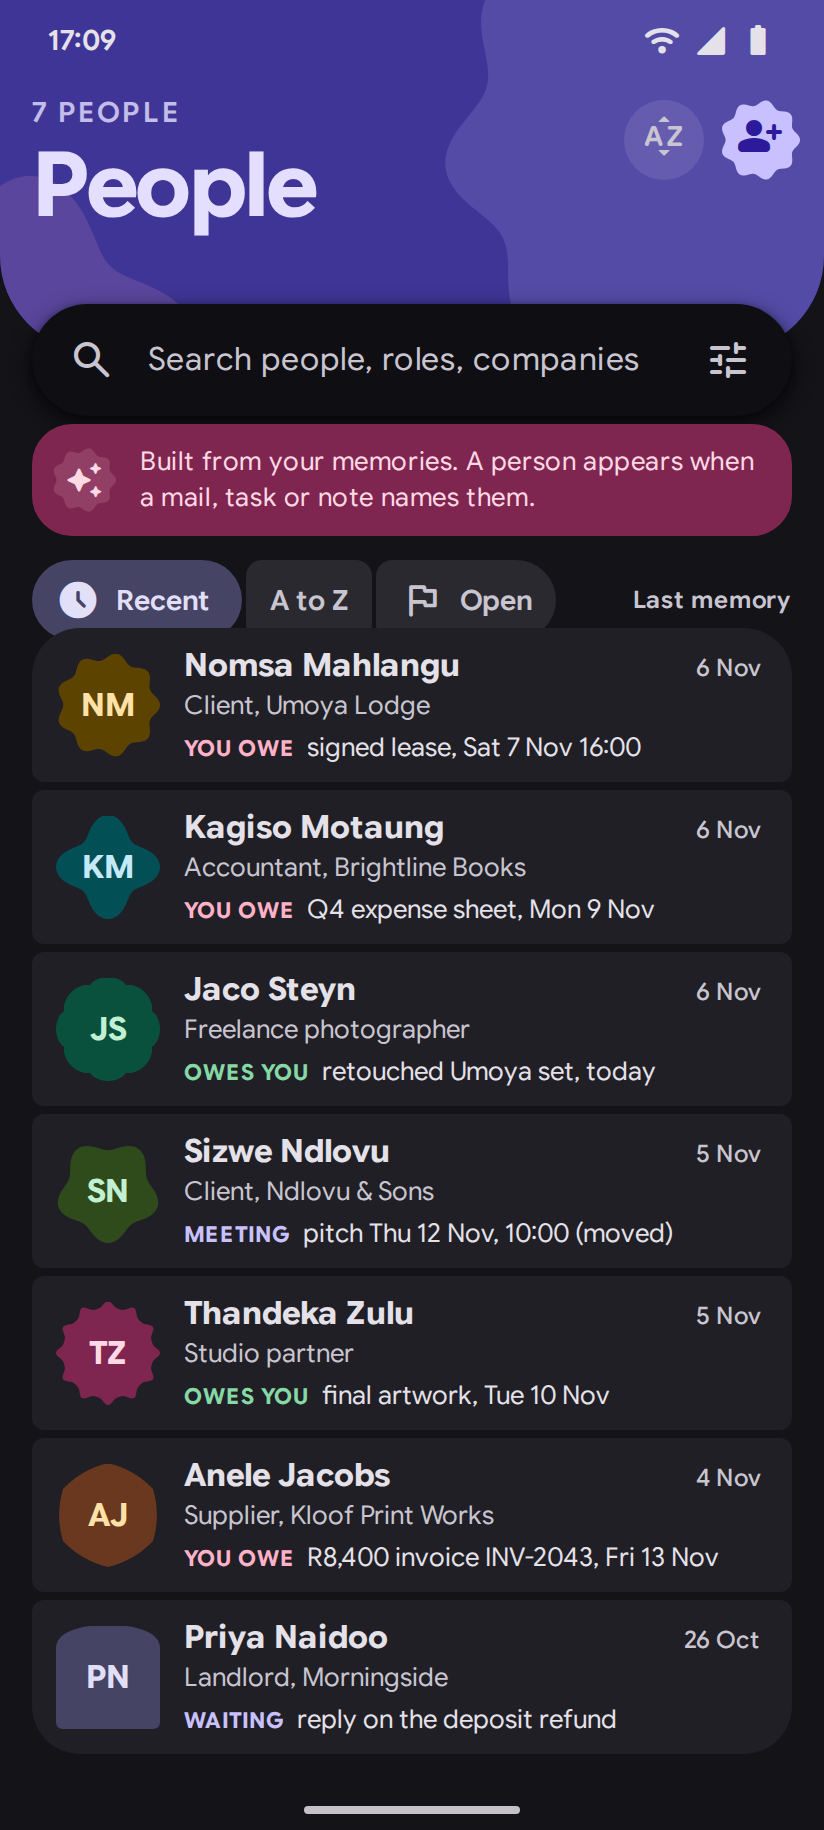
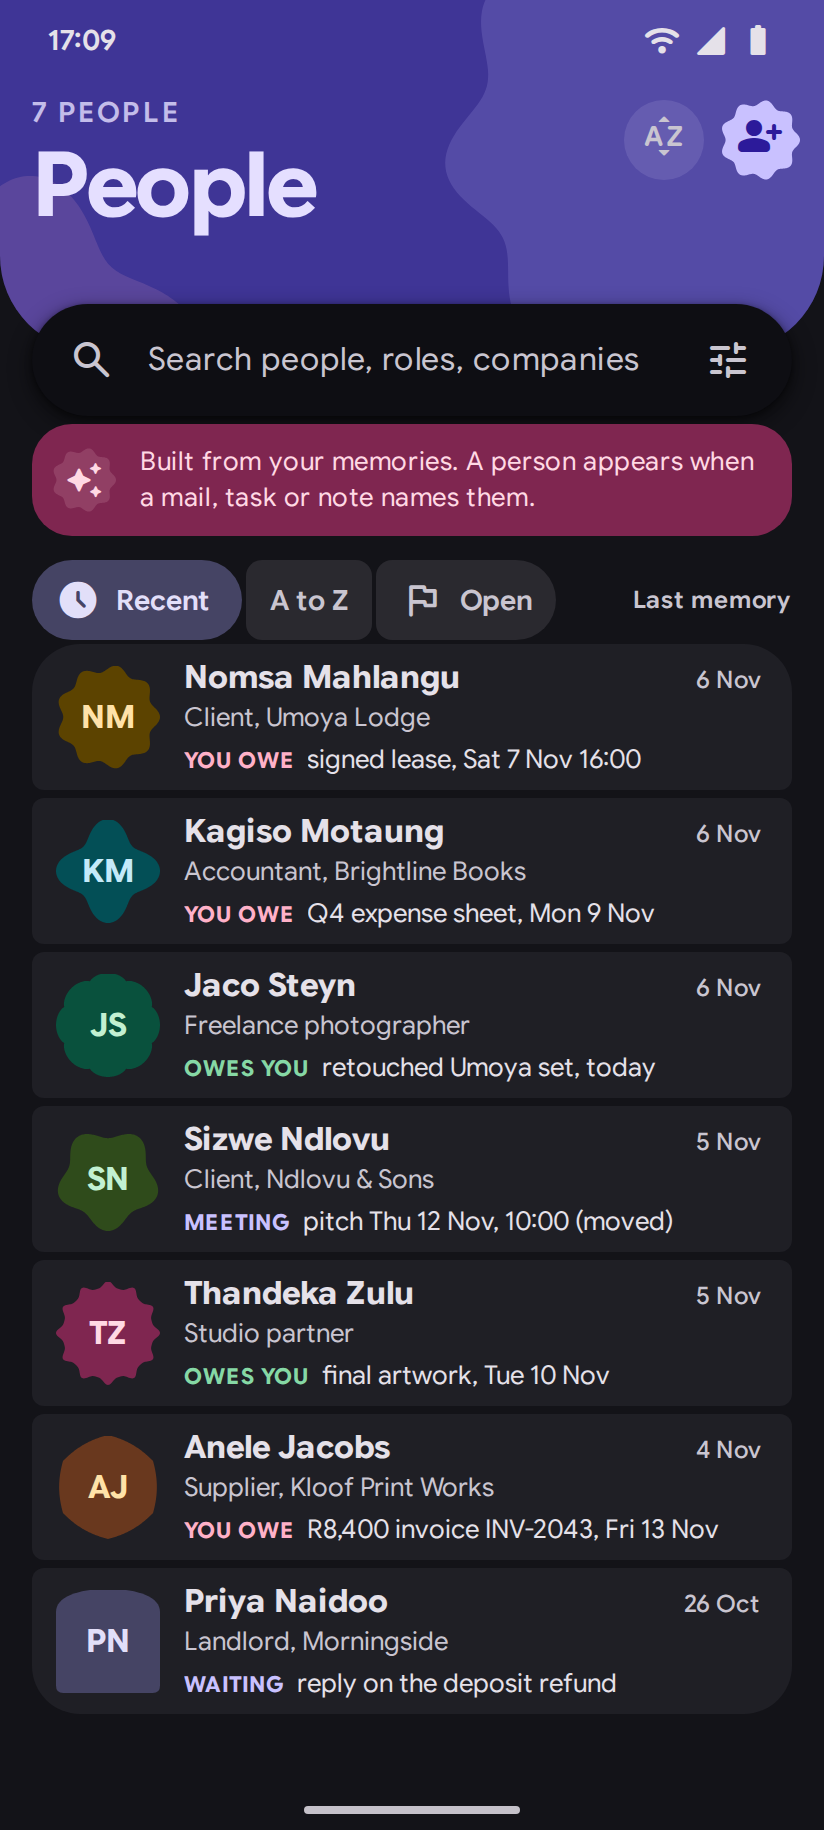
Mocks 06 to 10 (daily report, people, person, nudge, chat answer): v3

diff --git a/design/life-agent-mocks/06-daily-report-dark.html b/design/life-agent-mocks/06-daily-report-dark.html
@@ -7,28 +7,28 @@ const mountB = (html, time) => { mount(html); document.querySelector('.status sp
 
 const sec = (l, c) => `<div class="sec" style="height:24px"><span class="l">${l}${c !== undefined ? `<span class="c">${c}</span>` : ''}</span></div>`;
 /* aware: a shaped kind icon instead of a tick, the whole row opens the source */
-const aware = (icon, tn, shape, t, src, when) => `<div class="row" style="min-height:52px"><div class="shi" style="width:36px;height:36px;${tone(tn)}${clip(shape)}">${ic(icon, 'f s20')}</div><div class="txt"><div class="ttl" style="font-size:14px">${t}</div><div class="meta" style="margin-top:1px">${sc(src)}<span class="t">${when}</span></div></div><div class="ib" style="width:40px">${ic('arrow_outward', 's20')}</div></div>`;
-const task = (t, src, when, o = {}) => `<div class="row ${o.late ? 'late' : ''}" style="min-height:52px"><div class="tickw"><div class="tick ${o.late ? 'late' : ''}"></div></div><div class="txt"><div class="ttl" style="font-size:14px">${t}</div><div class="meta" style="margin-top:1px">${sc(src)}<span class="t ${o.late ? 'late' : ''}">${when}</span></div></div><div class="ib" style="width:44px">${ic('snooze', 's20')}</div></div>`;
-const oc = (t, i) => `<span class="chip" style="height:32px;padding:0 12px 0 10px;font-size:13px;gap:6px">${ic(i || 'radio_button_unchecked')}${t}</span>`;
+const aware = (icon, tn, shape, t, src, when) => `<div class="row" style="min-height:50px"><div class="shi" style="width:36px;height:36px;${tone(tn)}${clip(shape)}">${ic(icon, 'f s20')}</div><div class="txt"><div class="ttl" style="font-size:14px">${t}</div><div class="meta" style="margin-top:1px">${sc(src)}<span class="t">${when}</span></div></div><div class="ib" style="width:40px">${ic('arrow_outward', 's20')}</div></div>`;
+const task = (t, src, when, o = {}) => `<div class="row ${o.late ? 'late' : ''}" style="min-height:50px"><div class="tickw"><div class="tick ${o.late ? 'late' : ''}"></div></div><div class="txt"><div class="ttl" style="font-size:14px">${t}</div><div class="meta" style="margin-top:1px">${sc(src)}<span class="t ${o.late ? 'late' : ''}">${when}</span></div></div><div class="ib" style="width:44px">${ic('snooze', 's20')}</div></div>`;
+const oc = (t, i) => `<span class="chip" style="height:30px;padding:0 12px 0 10px;font-size:13px;gap:6px">${ic(i || 'radio_button_unchecked')}${t}</span>`;
 
 mountB(`
-${blobHeader({ eyebrow: 'FRIDAY 6 NOVEMBER', title: '<span style="font:700 36px/42px var(--font);letter-spacing:-.8px">Daily report</span>', back: 1, h: 152, icon1: 'history', icon2: 'tune' })}
+${blobHeader({ eyebrow: 'FRIDAY 6 NOVEMBER', title: '<span style="font:700 36px/42px var(--font);letter-spacing:-.8px">Daily report</span>', back: 1, h: 148, icon1: 'history', icon2: 'tune' })}
 <div class="abs" style="top:112px;left:16px;right:16px;display:flex;gap:6px;color:var(--on-primary-container)">
   <span class="pill" style="background:color-mix(in srgb,var(--on-primary-container) 12%,transparent)">${ic('sync')}Collected 17:04</span>
   <span class="pill" style="background:color-mix(in srgb,var(--on-primary-container) 12%,transparent)">3 due today</span>
   <span class="pill err">1 overdue</span>
 </div>
 
-<div class="abs" style="top:160px;left:0;right:0">
+<div class="abs" style="top:154px;left:0;right:0">
   ${sec('TO BE AWARE OF', 4)}
   <div class="grp" style="gap:2px">
-    ${aware('schedule', 't', 'cookie9', 'Signed lease due to Nomsa tomorrow, 16:00', 'gmail', 'Sat 7 Nov')}
+    ${aware('schedule', 't', 'cookie9', 'Nomsa\'s lease is due tomorrow', 'gmail', 'Sat 7 Nov, 16:00')}
     ${aware('payments', 'a', 'clover4', 'INV-2043, R8,400, is due Fri 13 Nov', 'gmail', 'Anele Jacobs')}
-    ${aware('event_repeat', 'k', 'puffy', 'Sizwe moved the pitch to Thu 12 Nov, 10:00', 'cal', 'moved from Wed')}
-    ${aware('shield', 'g', 'gem', 'New Google sign-in from Windows, Durban', 'gmail', 'Thu 21:12')}
+    ${aware('event_repeat', 'k', 'puffy', 'Pitch moved to Thu 12 Nov, 10:00', 'cal', 'Sizwe, was Wed')}
+    ${aware('shield', 'g', 'gem', 'New Google sign-in from Durban', 'gmail', 'Windows, Thu 21:12')}
   </div>
 
-  <div style="height:6px"></div>
+  <div style="height:2px"></div>
   ${sec('DUE TODAY', 3)}
   <div class="grp" style="gap:2px">
     ${task('Chase Jaco for the retouched set', 'clickup', 'today 17:00')}
@@ -36,15 +36,15 @@ ${blobHeader({ eyebrow: 'FRIDAY 6 NOVEMBER', title: '<span style="font:700 36px/
     ${task('Standup notes for Thandeka', 'clickup', 'today')}
   </div>
 
-  <div style="height:4px"></div>
+  <div style="height:0"></div>
   ${sec('OVERDUE', 1)}
   <div class="grp">${task('Book the Durban workshop flights', 'clickup', '2 days late', { late: 1 })}</div>
 
-  <div style="height:4px"></div>
+  <div style="height:0"></div>
   ${sec('TODAY\'S MEETINGS', 1)}
-  <div class="grp"><div class="row" style="min-height:52px"><div style="width:40px;flex:none;text-align:center"><div class="title-m-em" style="line-height:20px;font-size:15px">15:30</div><div class="label-s muted" style="font-weight:500">30 min</div></div><div class="txt"><div class="ttl" style="font-size:14px">Call with Kagiso about Q4</div><div class="meta" style="margin-top:1px">${sc('cal')}<span class="t">Google Meet</span></div></div><div class="ib" style="width:44px">${ic('chevron_right', 's20')}</div></div></div>
+  <div class="grp"><div class="row" style="min-height:50px"><div style="width:40px;flex:none;text-align:center"><div class="title-m-em" style="line-height:20px;font-size:15px">15:30</div><div class="label-s muted" style="font-weight:500">30 min</div></div><div class="txt"><div class="ttl" style="font-size:14px">Call with Kagiso about Q4</div><div class="meta" style="margin-top:1px">${sc('cal')}<span class="t">Google Meet</span></div></div><div class="ib" style="width:44px">${ic('chevron_right', 's20')}</div></div></div>
 
-  <div style="height:4px"></div>
+  <div style="height:0"></div>
   ${sec('STILL OPEN', 5)}
   <div style="display:flex;flex-wrap:wrap;gap:6px 6px;padding:0 16px">
     ${oc('Q4 expense sheet')}${oc('Approve INV-2043')}${oc('Chase Jaco')}${oc('Book the flights')}${oc('Sign the lease')}

diff --git a/design/life-agent-mocks/06-daily-report-light.html b/design/life-agent-mocks/06-daily-report-light.html
@@ -7,28 +7,28 @@ const mountB = (html, time) => { mount(html); document.querySelector('.status sp
 
 const sec = (l, c) => `<div class="sec" style="height:24px"><span class="l">${l}${c !== undefined ? `<span class="c">${c}</span>` : ''}</span></div>`;
 /* aware: a shaped kind icon instead of a tick, the whole row opens the source */
-const aware = (icon, tn, shape, t, src, when) => `<div class="row" style="min-height:52px"><div class="shi" style="width:36px;height:36px;${tone(tn)}${clip(shape)}">${ic(icon, 'f s20')}</div><div class="txt"><div class="ttl" style="font-size:14px">${t}</div><div class="meta" style="margin-top:1px">${sc(src)}<span class="t">${when}</span></div></div><div class="ib" style="width:40px">${ic('arrow_outward', 's20')}</div></div>`;
-const task = (t, src, when, o = {}) => `<div class="row ${o.late ? 'late' : ''}" style="min-height:52px"><div class="tickw"><div class="tick ${o.late ? 'late' : ''}"></div></div><div class="txt"><div class="ttl" style="font-size:14px">${t}</div><div class="meta" style="margin-top:1px">${sc(src)}<span class="t ${o.late ? 'late' : ''}">${when}</span></div></div><div class="ib" style="width:44px">${ic('snooze', 's20')}</div></div>`;
-const oc = (t, i) => `<span class="chip" style="height:32px;padding:0 12px 0 10px;font-size:13px;gap:6px">${ic(i || 'radio_button_unchecked')}${t}</span>`;
+const aware = (icon, tn, shape, t, src, when) => `<div class="row" style="min-height:50px"><div class="shi" style="width:36px;height:36px;${tone(tn)}${clip(shape)}">${ic(icon, 'f s20')}</div><div class="txt"><div class="ttl" style="font-size:14px">${t}</div><div class="meta" style="margin-top:1px">${sc(src)}<span class="t">${when}</span></div></div><div class="ib" style="width:40px">${ic('arrow_outward', 's20')}</div></div>`;
+const task = (t, src, when, o = {}) => `<div class="row ${o.late ? 'late' : ''}" style="min-height:50px"><div class="tickw"><div class="tick ${o.late ? 'late' : ''}"></div></div><div class="txt"><div class="ttl" style="font-size:14px">${t}</div><div class="meta" style="margin-top:1px">${sc(src)}<span class="t ${o.late ? 'late' : ''}">${when}</span></div></div><div class="ib" style="width:44px">${ic('snooze', 's20')}</div></div>`;
+const oc = (t, i) => `<span class="chip" style="height:30px;padding:0 12px 0 10px;font-size:13px;gap:6px">${ic(i || 'radio_button_unchecked')}${t}</span>`;
 
 mountB(`
-${blobHeader({ eyebrow: 'FRIDAY 6 NOVEMBER', title: '<span style="font:700 36px/42px var(--font);letter-spacing:-.8px">Daily report</span>', back: 1, h: 152, icon1: 'history', icon2: 'tune' })}
+${blobHeader({ eyebrow: 'FRIDAY 6 NOVEMBER', title: '<span style="font:700 36px/42px var(--font);letter-spacing:-.8px">Daily report</span>', back: 1, h: 148, icon1: 'history', icon2: 'tune' })}
 <div class="abs" style="top:112px;left:16px;right:16px;display:flex;gap:6px;color:var(--on-primary-container)">
   <span class="pill" style="background:color-mix(in srgb,var(--on-primary-container) 12%,transparent)">${ic('sync')}Collected 17:04</span>
   <span class="pill" style="background:color-mix(in srgb,var(--on-primary-container) 12%,transparent)">3 due today</span>
   <span class="pill err">1 overdue</span>
 </div>
 
-<div class="abs" style="top:160px;left:0;right:0">
+<div class="abs" style="top:154px;left:0;right:0">
   ${sec('TO BE AWARE OF', 4)}
   <div class="grp" style="gap:2px">
-    ${aware('schedule', 't', 'cookie9', 'Signed lease due to Nomsa tomorrow, 16:00', 'gmail', 'Sat 7 Nov')}
+    ${aware('schedule', 't', 'cookie9', 'Nomsa\'s lease is due tomorrow', 'gmail', 'Sat 7 Nov, 16:00')}
     ${aware('payments', 'a', 'clover4', 'INV-2043, R8,400, is due Fri 13 Nov', 'gmail', 'Anele Jacobs')}
-    ${aware('event_repeat', 'k', 'puffy', 'Sizwe moved the pitch to Thu 12 Nov, 10:00', 'cal', 'moved from Wed')}
-    ${aware('shield', 'g', 'gem', 'New Google sign-in from Windows, Durban', 'gmail', 'Thu 21:12')}
+    ${aware('event_repeat', 'k', 'puffy', 'Pitch moved to Thu 12 Nov, 10:00', 'cal', 'Sizwe, was Wed')}
+    ${aware('shield', 'g', 'gem', 'New Google sign-in from Durban', 'gmail', 'Windows, Thu 21:12')}
   </div>
 
-  <div style="height:6px"></div>
+  <div style="height:2px"></div>
   ${sec('DUE TODAY', 3)}
   <div class="grp" style="gap:2px">
     ${task('Chase Jaco for the retouched set', 'clickup', 'today 17:00')}
@@ -36,15 +36,15 @@ ${blobHeader({ eyebrow: 'FRIDAY 6 NOVEMBER', title: '<span style="font:700 36px/
     ${task('Standup notes for Thandeka', 'clickup', 'today')}
   </div>
 
-  <div style="height:4px"></div>
+  <div style="height:0"></div>
   ${sec('OVERDUE', 1)}
   <div class="grp">${task('Book the Durban workshop flights', 'clickup', '2 days late', { late: 1 })}</div>
 
-  <div style="height:4px"></div>
+  <div style="height:0"></div>
   ${sec('TODAY\'S MEETINGS', 1)}
-  <div class="grp"><div class="row" style="min-height:52px"><div style="width:40px;flex:none;text-align:center"><div class="title-m-em" style="line-height:20px;font-size:15px">15:30</div><div class="label-s muted" style="font-weight:500">30 min</div></div><div class="txt"><div class="ttl" style="font-size:14px">Call with Kagiso about Q4</div><div class="meta" style="margin-top:1px">${sc('cal')}<span class="t">Google Meet</span></div></div><div class="ib" style="width:44px">${ic('chevron_right', 's20')}</div></div></div>
+  <div class="grp"><div class="row" style="min-height:50px"><div style="width:40px;flex:none;text-align:center"><div class="title-m-em" style="line-height:20px;font-size:15px">15:30</div><div class="label-s muted" style="font-weight:500">30 min</div></div><div class="txt"><div class="ttl" style="font-size:14px">Call with Kagiso about Q4</div><div class="meta" style="margin-top:1px">${sc('cal')}<span class="t">Google Meet</span></div></div><div class="ib" style="width:44px">${ic('chevron_right', 's20')}</div></div></div>
 
-  <div style="height:4px"></div>
+  <div style="height:0"></div>
   ${sec('STILL OPEN', 5)}
   <div style="display:flex;flex-wrap:wrap;gap:6px 6px;padding:0 16px">
     ${oc('Q4 expense sheet')}${oc('Approve INV-2043')}${oc('Chase Jaco')}${oc('Book the flights')}${oc('Sign the lease')}

diff --git a/design/life-agent-mocks/10-chat-week-dark.html b/design/life-agent-mocks/10-chat-week-dark.html
@@ -39,7 +39,7 @@ mountB(`
   </div>
 </div>
 
-<div class="abs" style="left:0;right:0;bottom:112px;display:flex;gap:8px;padding:0 16px;overflow:hidden;z-index:51">${chip('Draft reply to Nomsa', { icon: 'edit_note' })}${chip('Tick off standup notes', { icon: 'task_alt' })}</div>
+<div class="abs" style="left:0;right:0;bottom:112px;display:flex;gap:8px;padding:0 16px;overflow:hidden;z-index:51">${chip('Draft reply to Nomsa')}${chip('Tick off standup notes')}</div>
 <div class="fade" style="height:170px"></div>
 <div class="abs" style="left:16px;right:16px;bottom:36px;height:64px;border-radius:32px;background:var(--surface-container-high);display:flex;align-items:center;padding:0 8px 0 4px;box-shadow:var(--e1);gap:0;z-index:51">
   <div class="ib">${ic('add_circle')}</div><span class="body-l muted" style="flex:1">Ask your memories…</span><div class="ib">${ic('mic')}</div>

diff --git a/design/life-agent-mocks/10-chat-week-light.html b/design/life-agent-mocks/10-chat-week-light.html
@@ -39,7 +39,7 @@ mountB(`
   </div>
 </div>
 
-<div class="abs" style="left:0;right:0;bottom:112px;display:flex;gap:8px;padding:0 16px;overflow:hidden;z-index:51">${chip('Draft reply to Nomsa', { icon: 'edit_note' })}${chip('Tick off standup notes', { icon: 'task_alt' })}</div>
+<div class="abs" style="left:0;right:0;bottom:112px;display:flex;gap:8px;padding:0 16px;overflow:hidden;z-index:51">${chip('Draft reply to Nomsa')}${chip('Tick off standup notes')}</div>
 <div class="fade" style="height:170px"></div>
 <div class="abs" style="left:16px;right:16px;bottom:36px;height:64px;border-radius:32px;background:var(--surface-container-high);display:flex;align-items:center;padding:0 8px 0 4px;box-shadow:var(--e1);gap:0;z-index:51">
   <div class="ib">${ic('add_circle')}</div><span class="body-l muted" style="flex:1">Ask your memories…</span><div class="ib">${ic('mic')}</div>

diff --git a/design/life-agent-mocks/screens-b.css b/design/life-agent-mocks/screens-b.css
@@ -55,7 +55,7 @@ html.dark .row.late { background: color-mix(in srgb, var(--error-container) 50%,
 .awc .go { width: 32px; height: 32px; border-radius: 16px; display: grid; place-items: center; background: color-mix(in srgb, currentColor 12%, transparent); margin: -4px -6px -4px 0; }
 
 /* people */
-.pr { display: flex; gap: 12px; align-items: center; padding: 8px 16px 8px 12px; min-height: 72px; }
+.pr { display: flex; gap: 12px; align-items: center; padding: 6px 16px 6px 12px; min-height: 70px; }
 .pr .nm { display: flex; align-items: baseline; justify-content: space-between; gap: 8px; }
 .pr .nm .d { font: 500 12px/16px var(--font); color: var(--on-surface-variant); flex: none; }
 .pr .rl { font: 400 13px/18px var(--font); color: var(--on-surface-variant); }

diff --git a/design/life-agent-mocks/07-people-dark.html b/design/life-agent-mocks/07-people-dark.html
@@ -30,7 +30,7 @@ ${blobHeader({ eyebrow: '7 PEOPLE', title: 'People', h: 176, icon1: 'sort_by_alp
   </div>
 </div>
 
-<div class="abs grp" style="top:314px;left:0;right:0">
+<div class="abs grp" style="top:322px;left:0;right:0">
   ${person('NM', 'cookie9', 'sand', 'Nomsa Mahlangu', 'Client, Umoya Lodge', OW, 'signed lease, Sat 7 Nov 16:00', '6 Nov')}
   ${person('KM', 'clover4', 'teal', 'Kagiso Motaung', 'Accountant, Brightline Books', OW, 'Q4 expense sheet, Mon 9 Nov', '6 Nov')}
   ${person('JS', 'sunny', 'moss', 'Jaco Steyn', 'Freelance photographer', OU, 'retouched Umoya set, today', '6 Nov')}

diff --git a/design/life-agent-mocks/07-people-light.html b/design/life-agent-mocks/07-people-light.html
@@ -30,7 +30,7 @@ ${blobHeader({ eyebrow: '7 PEOPLE', title: 'People', h: 176, icon1: 'sort_by_alp
   </div>
 </div>
 
-<div class="abs grp" style="top:314px;left:0;right:0">
+<div class="abs grp" style="top:322px;left:0;right:0">
   ${person('NM', 'cookie9', 'sand', 'Nomsa Mahlangu', 'Client, Umoya Lodge', OW, 'signed lease, Sat 7 Nov 16:00', '6 Nov')}
   ${person('KM', 'clover4', 'teal', 'Kagiso Motaung', 'Accountant, Brightline Books', OW, 'Q4 expense sheet, Mon 9 Nov', '6 Nov')}
   ${person('JS', 'sunny', 'moss', 'Jaco Steyn', 'Freelance photographer', OU, 'retouched Umoya set, today', '6 Nov')}
